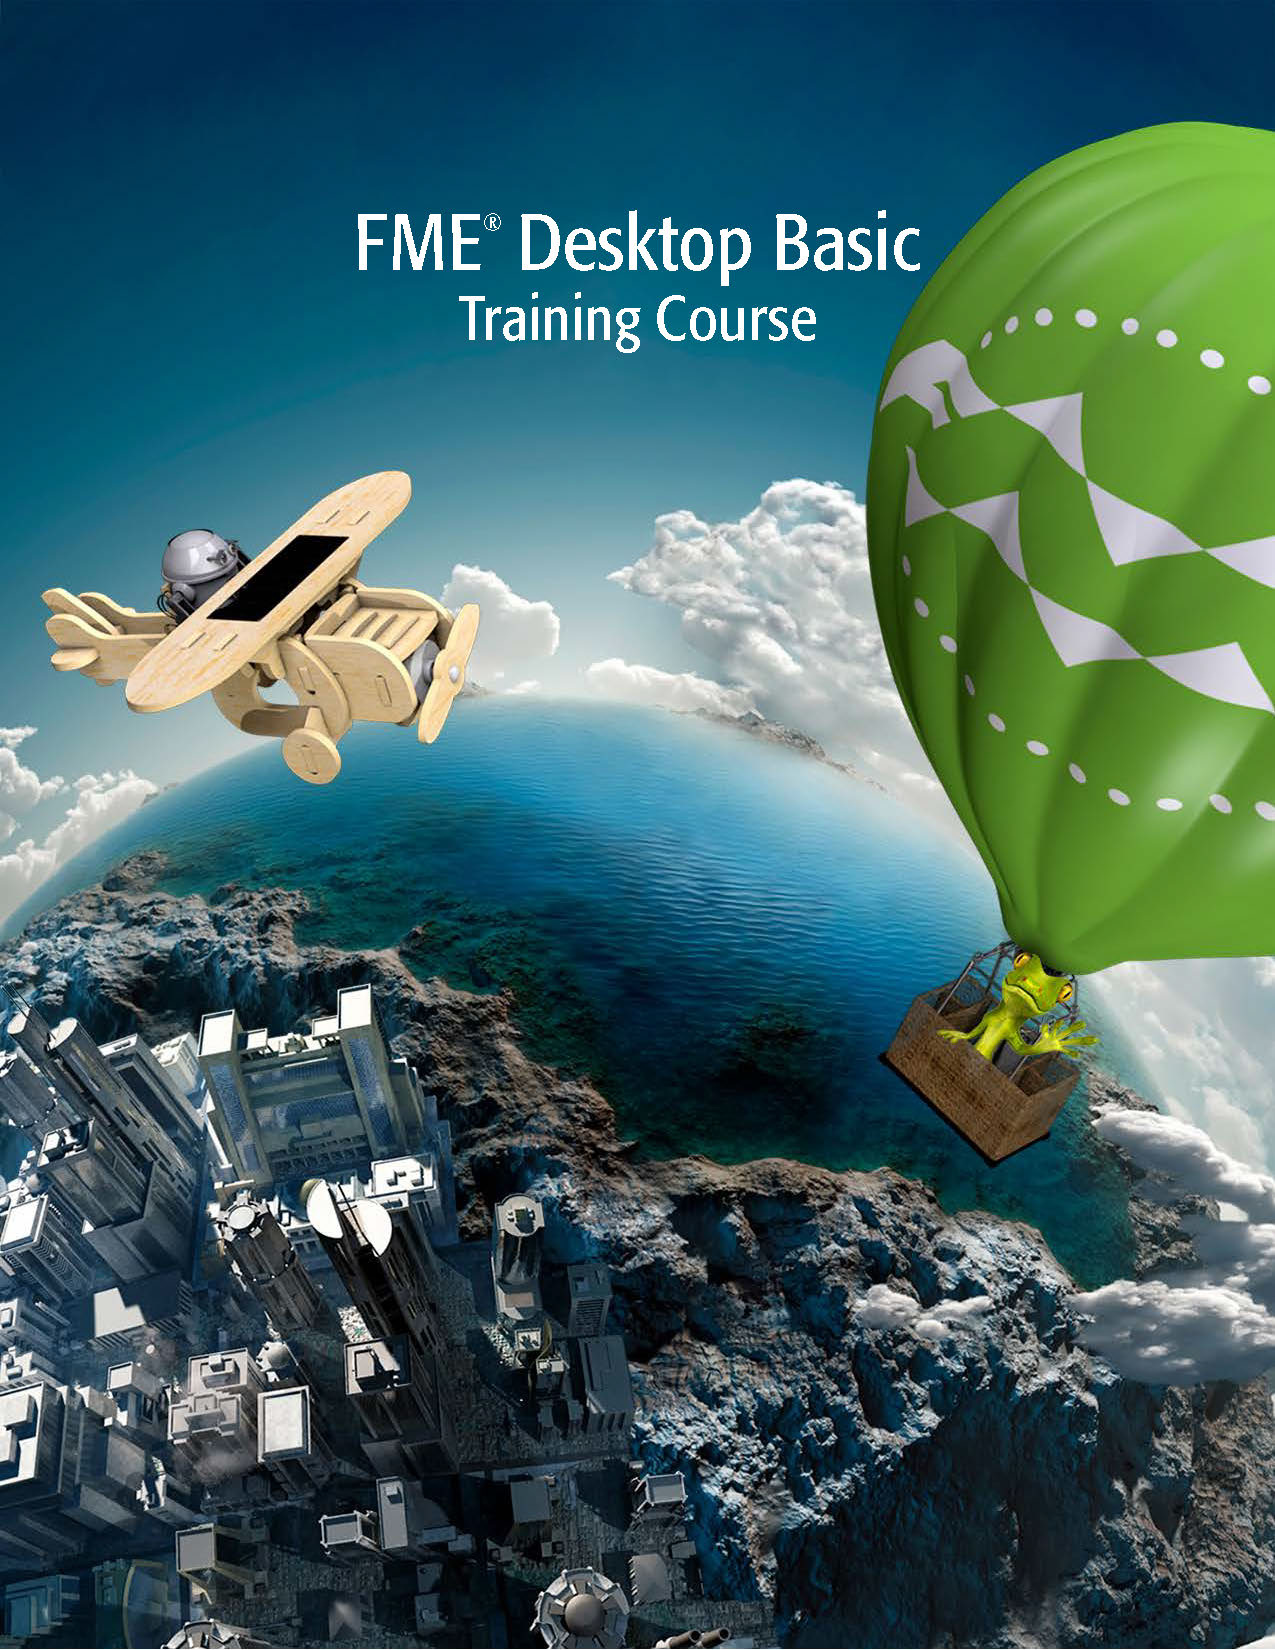
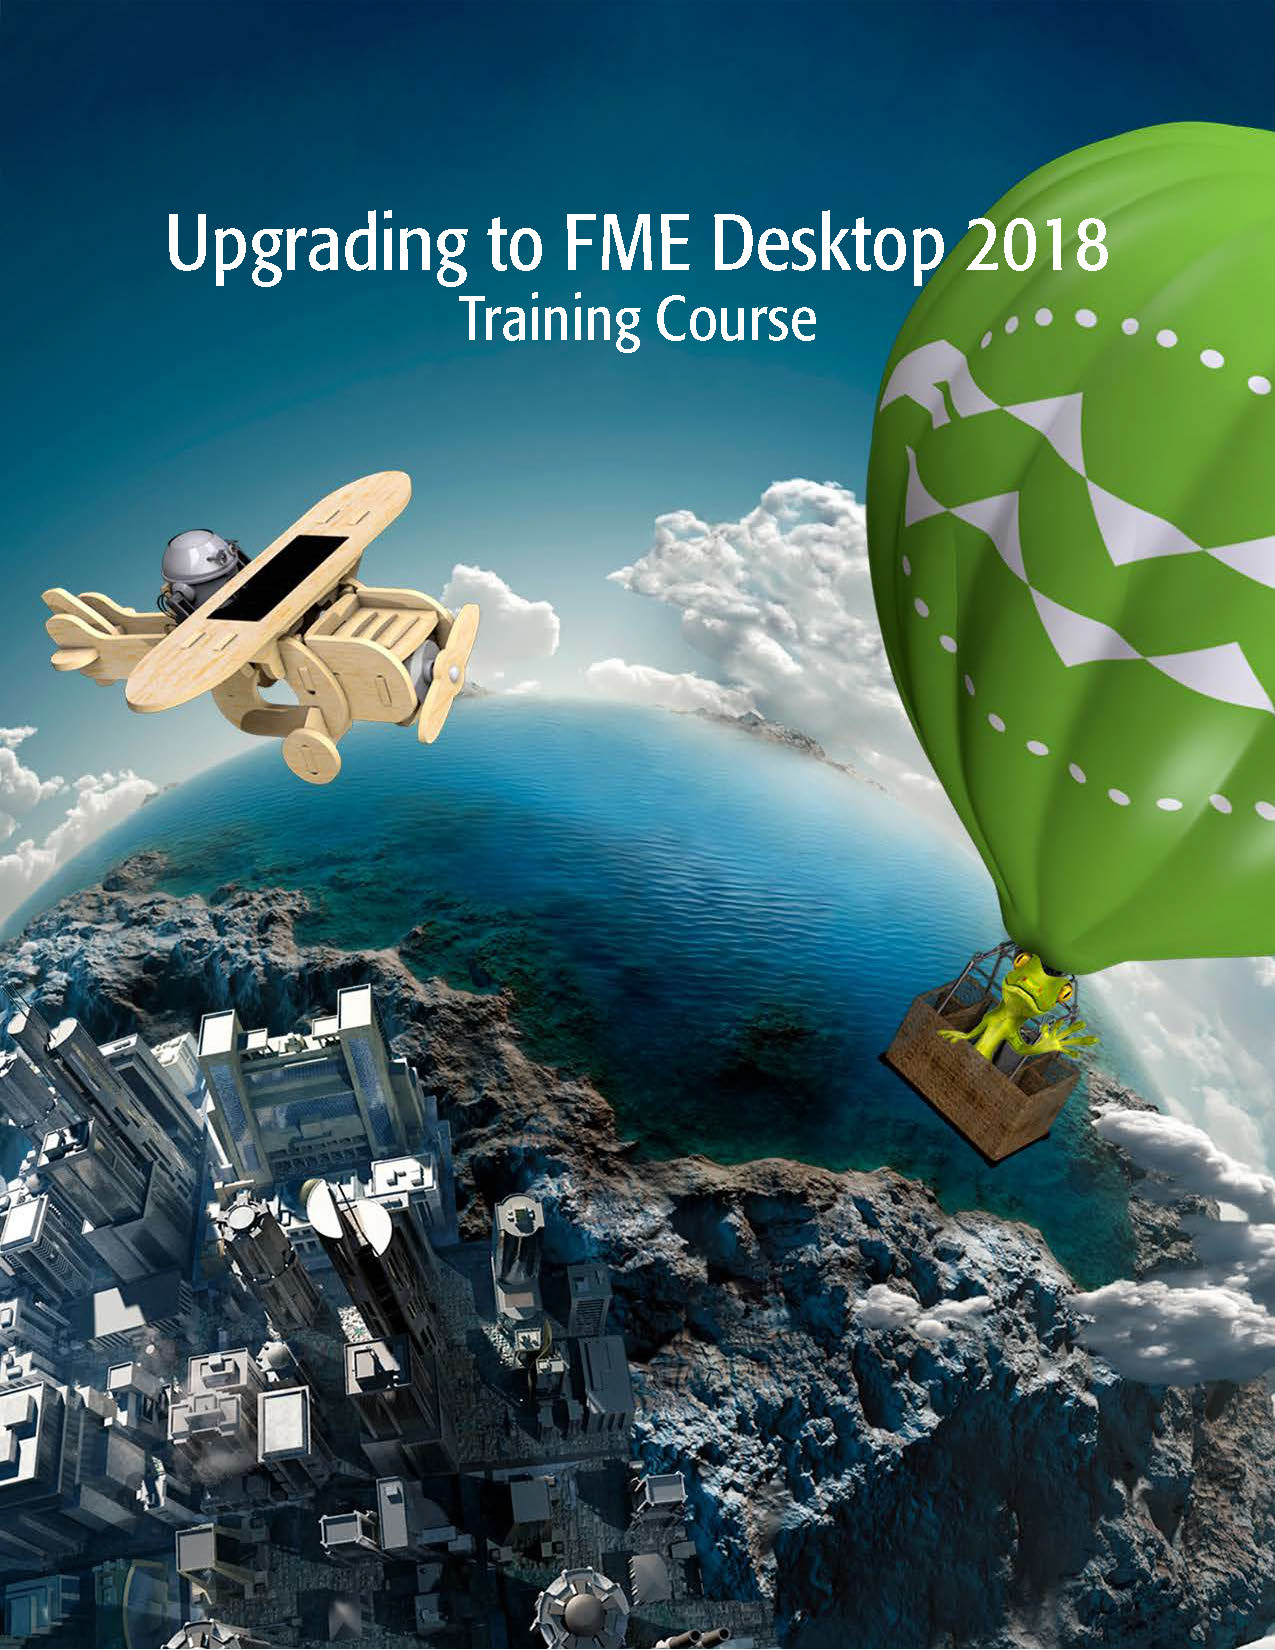
2018 Chapter 0 Updates

Changed region(s): [[0.1224, 0.1236, 0.8871, 0.1855]]

diff --git a/README.md b/README.md
@@ -1,40 +1,27 @@
 <!--This file duplicates a little of the content to follow, but is added here because the content of this file is used for the landing page on GitBook-->
 
-# FME Desktop Basic Training Manual #
+# FME Desktop Upgrade to 2018 Training Manual #
 
-This is the manual for the introductory-level training course for Safe Software’s FME Desktop application.
+This manual is a training course for users upgrading to the 2018 version of Safe Software’s FME Desktop application.
 
 ![](./DesktopBasic0Introduction/Images/Img0.0.FMEAboutScreen.png)
 
-The training will introduce basic concepts and terminology, help students become efficient users of FME, and direct you to resources to help apply the product to your own needs.
+The training will introduce new concepts and terminology, and help students become familiar with methodology that has changed since the previous release. 
+
 
 ## Course Structure ##
 
-The full course is made up of five main sections. These sections are:
+The course is made up of various sections, including:
 
-- Data Translation Basics
-- Data Transformation
-- Workspace Design
-- Practical Transformer Use
-- Best Practice
+- A general overview of 2018
+- Authoring workflows with the Partial Run tools
+- Collapsible bookmarks and related functionality
+- Precision and tolerance in spatial transformation
+- Writing and styling Microsoft formats of data
+- Using the new FeatureJoiner transformer
  
 ## Current Status ##
 
-The current status of this manual is: **COMPLETE**: this manual can be used for training, subject to minor, last-minute fixes and creation of slides.
-
-This manual applies to **FME2018.0**
-
-The status of each chapter is:
-
-- Chapter 0: Complete content. No exercises
-- Chapter 1: Complete content and exercises
-- Chapter 2: Complete content and exercises
-- Chapter 3: Complete content and exercises
-- Chapter 4: Complete content and exercises
-- Chapter 5: Complete content and exercises
-- Chapter 6: Complete content. No exercises
-- Slides: Incomplete
-- FMEData: Complete
-- Course Outline: Complete
+The current status of this manual is: **INCOMPLETE**: this manual should **NOT** be used for training.
 
 ***NB:*** *Even for completed content, Safe Software Inc. assumes no responsibility for any errors in this document or their consequences, and reserves the right to make improvements and changes to this document without notice. See the full licensing agreement for further details.*

diff --git a/DesktopBasic0Introduction/0.01.CourseOverview.md b/DesktopBasic0Introduction/0.01.CourseOverview.md
@@ -1,28 +1,22 @@
 # Course Overview #
 
-This training course provides a framework for a basic understanding of FME. We find users come to master one function, but go home with many new FME uses.
+The training will introduce new concepts and terminology, and help students become familiar with methodology that has changed since the previous release. 
 
-The training will introduce basic concepts and terminology, help students become efficient users of FME, and direct you to resources to help apply the product to your own needs.
 
 ## Course Structure ##
 
-The full course is made up of five sections. These sections are:
+The course is made up of various sections, including:
 
-- Data Translation Basics
-- Data Transformation
-- Workspace Design
-- Practical Transformer Use
-- Best Practice
+- A general overview of 2018
+- Authoring workflows with the Partial Run tools
+- Collapsible bookmarks and related functionality
+- Precision and tolerance in spatial transformation
+- Writing and styling Microsoft formats of data
+- Using the new FeatureJoiner transformer
+ 
 
-## Course Length ##
-
-The instructor may choose to cover as many of these sections as they feel are required, or possible, in the time permitted. They may also cover the course content in a different order and will skip or add new content to better customize the course to your needs.
-
-Therefore the length and content of the course may vary, particularly when delivered online.
-
-**Safe Software** offers training in various lengths, but usually either two days or five days. Both courses cover the same content. The two-day course is held over fewer, but longer, days and is more intense. The five-day course is held over more, but shorter, days and allows a little more time to cover the content from a beginner's perspective. 
 
 ## About the Manual ##
-The FME Desktop training manual not only forms the basis for FME Desktop training – in-person or online – but is also useful reference material for future work you may undertake with FME. It is updated for each major release of FME.
+The FME Desktop training manual not only forms the basis for this training course but is also useful reference material for future work you may undertake with FME.
 
 All screenshots in these materials were taken using FME on Windows Server 2016. The fonts used (especially in screenshots of the log window) may be resized or otherwise changed for improved legibility.

diff --git a/DesktopBasic0Introduction/0.00.CourseIntroduction.md b/DesktopBasic0Introduction/0.00.CourseIntroduction.md
@@ -1,6 +1,6 @@
 # About This Document #
 
-This manual is the introductory-level training course for FME Desktop.
+This manual is a training course for users upgrading to the 2018 version of Safe Software’s FME Desktop application.
 
 ![](./Images/Img0.0.FMEAboutScreen.png)
 
@@ -53,7 +53,7 @@ Unless otherwise stated, the data used here originates from open data made avail
 
 Forward Sortation Areas: Statistics Canada, 2011 Census Digital Boundary Files, 2013. Reproduced and distributed on an "as is" basis with the permission of Statistics Canada. © This data includes information copied with permission from Canada Post Corporation.
 
-Digital Elevation Model: GeoBase®
+Digital Elevation Model: GeoBase<sup>®</sup>
 
 Fire Hall Data: Some attribute data adapted from content © 2013 by [Wikipedia](http://en.wikipedia.org/wiki/Vancouver_Fire_and_Rescue_Services), used under a Creative Commons Attribution-ShareAlike license
 
@@ -80,11 +80,7 @@ Every effort has been made to ensure the accuracy of this document. Safe Softwar
 Safe Software Inc. assumes no responsibility for any errors in this document or their consequences, and reserves the right to make improvements and changes to this document without notice.
 
 ## Trademarks ##
-FME® is a registered trademark of Safe Software Inc. All brand or product names are trademarks or registered trademarks of their respective companies or organizations.
+FME<sup>®</sup> is a registered trademark of Safe Software Inc. All brand or product names are trademarks or registered trademarks of their respective companies or organizations.
 
 ## Document Information ##
-Document Name: 	FME Desktop Basic Training Manual 2018.0
-
-
-## What's New? ##
-A list of changes to this manual and its accompanying datasets can be found [on GitHub](https://github.com/safesoftware/FMETraining/blob/Desktop-Basic-2018/WhatsNew.md). The file includes a list of general revisions compared to the previous year's materials. It is designed to help trainers become up-to-speed with new content, and for students to identify which FME functionality is new for the current release. 
+Document Name: 	FME Desktop Upgrading to 2018 Training Manual 
